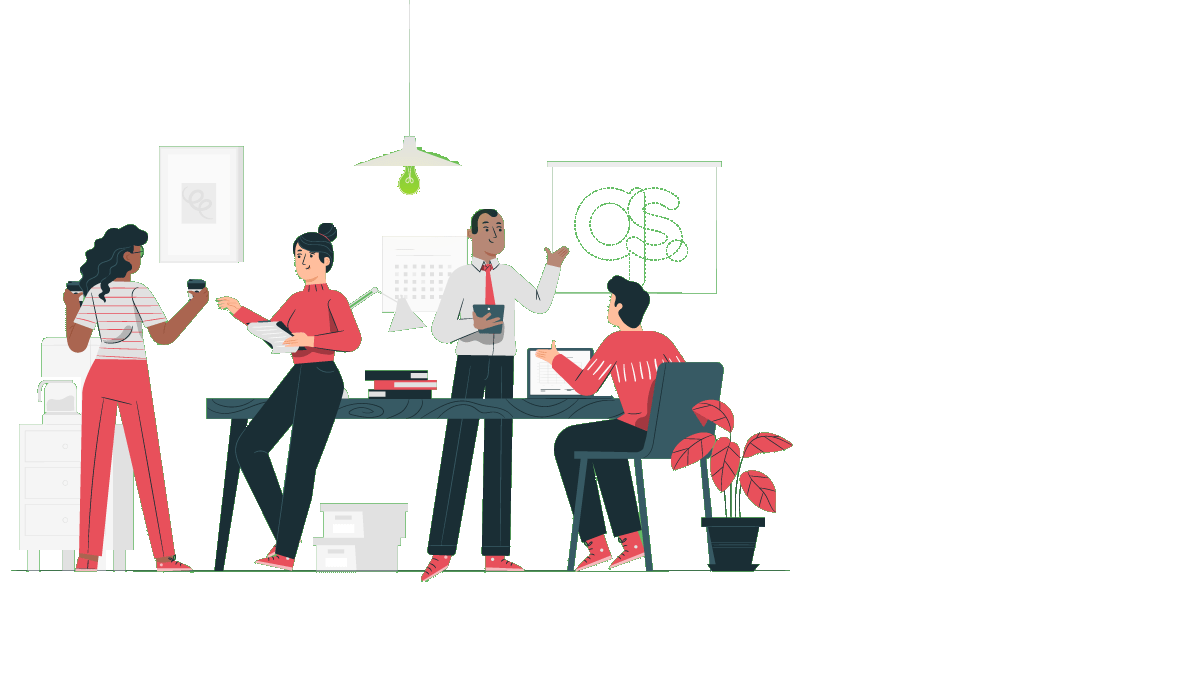
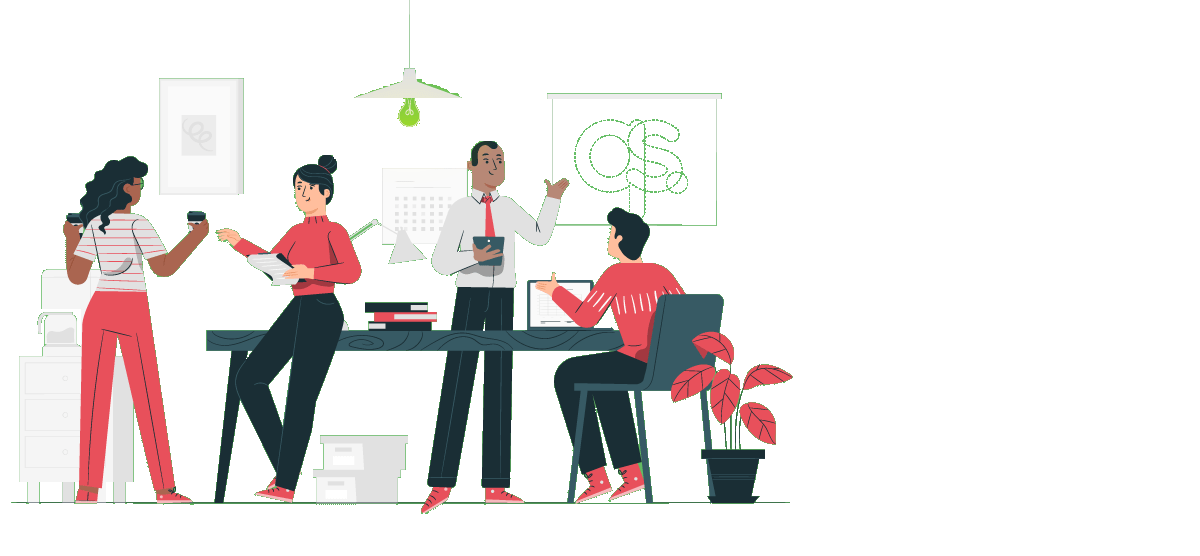
Primeira parte OK

diff --git a/Safer/Safer/src/app/home/home.component.html b/Safer/Safer/src/app/home/home.component.html
@@ -1,8 +1,8 @@
 <div class="principal">
-    <div class="container d-flex justify-content-end">
-        <div class="row d-flex align-items-center">
-            <div class="col-md-12" style="margin-top: 180px;">
-                <div id="formContent" style="margin-right: 0px;" style="background-color: #E8505B;">
+    <div class="container d-flex justify-content-end" style="margin-right: 0px;">
+        <div class="row d-flex align-items-center" style="margin-left: 500px;">
+            <div class="col-md-12" style="margin-top: 60px;">
+                <div id="formContent"  style="background-color: #E8505B;">
                     <!-- Tabs Titles -->
 
                     <!-- Icon -->
@@ -20,96 +20,15 @@
 
                     <div id="formFooter">
                         <!-- Button trigger modal -->
-                        <button type="button" class="btn btn-primary" data-toggle="modal"
-                            data-target="#staticBackdrop1">
+                        <button type="button" class="btn btn-warning" style="background-color: #E6B400;" data-toggle="modal"
+                            data-target="#staticBackdrop1" routerLink = "/solicitarbeneficio">
                             Solicite seu Beneficio
                         </button>
-
-                        <!-- Modal -->
-                        <div class="modal fade" id="staticBackdrop1" data-backdrop="static" data-keyboard="false"
-                            tabindex="-1" aria-labelledby="staticBackdropLabel1" aria-hidden="true">
-                            <div class="modal-dialog">
-                                <div class="modal-content">
-                                    <div class="modal-header">
-                                        <h5 class="modal-title" id="staticBackdropLabel1">Criar uma nova conta</h5>
-                                        <button type="button" class="close" data-dismiss="modal" aria-label="Close">
-                                            <span aria-hidden="true">&times;</span>
-                                        </button>
-                                    </div>
-                                    <div class="modal-body">
-                                        <form>
-                                            <div class="form-row">
-                                                <div class="form-group col-md-6">
-                                                    <label for="inputNome">Nome</label>
-                                                    <input type="text" class="form-control" id="inputNome">
-                                                </div>
-                                                <div class="form-group col-md-6">
-                                                    <label for="inputUsuario">Usuario</label>
-                                                    <input type="text" class="form-control" id="inputUsuario">
-                                                </div>
-                                            </div>
-                                            <div class="form-row">
-                                                <div class="form-group col-md-6">
-                                                    <label for="inputDataNascimento">Data de Nascimento</label>
-                                                    <input type="text" class="form-control" id="inputDataNascimento">
-                                                </div>
-                                                <div class="form-group col-md-6">
-                                                    <label for="inputSenha">Senha</label>
-                                                    <input type="password" class="form-control" id="inputSenha">
-                                                </div>
-                                            </div>
-                                            <div class="form-row">
-                                                <div class="form-group col-md-6">
-                                                    <label for="inputState">Tipo usuário</label>
-                                                    <select id="inputState" class="form-control">
-                                                        <option selected>Escolha...</option>
-                                                        <option>Médico</option>
-                                                        <option>Paciente</option>
-                                                    </select>
-                                                </div>
-                                                <div class="form-group col-md-6">
-                                                    <label for="inputCrm">CRM</label>
-                                                    <input type="text" class="form-control" id="inputCrm">
-                                                </div>
-                                            </div>
-                                            <hr>
-                                            <div class="form-row">
-                                                <div class="form-group col-md-6">
-                                                    <label for="inputRua">Rua</label>
-                                                    <input type="text" class="form-control" id="inputRua">
-                                                </div>
-                                                <div class="form-group col-md-6">
-                                                    <label for="inputBairro">Bairro</label>
-                                                    <input type="text" class="form-control" id="inputBairro">
-                                                </div>
-                                            </div>
-                                            <div class="form-row">
-                                                <div class="form-group col-md-4">
-                                                    <label for="inputRua">CEP</label>
-                                                    <input type="text" class="form-control" id="inputRua">
-                                                </div>
-                                                <div class="form-group col-md-4">
-                                                    <label for="inputNumero">Numero</label>
-                                                    <input type="text" class="form-control" id="inputNumero">
-                                                </div>
-                                                <div class="form-group col-md-4">
-                                                    <label for="inputComplemento">Complemento</label>
-                                                    <input type="text" class="form-control" id="inputComplemento">
-                                                </div>
-                                            </div>
-                                        </form>
-                                    </div>
-                                    <div class="modal-footer">
-                                        <button type="button" class="btn btn-secondary"
-                                            data-dismiss="modal">Fechar</button>
-                                        <button type="button" class="btn btn-primary">Enviar</button>
-                                    </div>
-                                </div>
-                            </div>
-                        </div>
                     </div>
 
                 </div>
             </div>
         </div>
+
+
     </div>

diff --git a/Safer/Safer/src/app/solicitarbeneficio/solicitarbeneficio.component.spec.ts b/Safer/Safer/src/app/solicitarbeneficio/solicitarbeneficio.component.spec.ts
@@ -1,0 +1,25 @@
+import { ComponentFixture, TestBed } from '@angular/core/testing';
+
+import { SolicitarbeneficioComponent } from './solicitarbeneficio.component';
+
+describe('SolicitarbeneficioComponent', () => {
+  let component: SolicitarbeneficioComponent;
+  let fixture: ComponentFixture<SolicitarbeneficioComponent>;
+
+  beforeEach(async () => {
+    await TestBed.configureTestingModule({
+      declarations: [ SolicitarbeneficioComponent ]
+    })
+    .compileComponents();
+  });
+
+  beforeEach(() => {
+    fixture = TestBed.createComponent(SolicitarbeneficioComponent);
+    component = fixture.componentInstance;
+    fixture.detectChanges();
+  });
+
+  it('should create', () => {
+    expect(component).toBeTruthy();
+  });
+});

diff --git a/Safer/Safer/src/app/app-routing.module.ts b/Safer/Safer/src/app/app-routing.module.ts
@@ -3,12 +3,14 @@ import { Routes, RouterModule } from '@angular/router';
 import { FooterComponent } from './footer/footer.component';
 import { HomeComponent } from './home/home.component';
 import { NavbarComponent } from './navbar/navbar.component';
+import { SolicitarbeneficioComponent } from './solicitarbeneficio/solicitarbeneficio.component';
 
 const routes: Routes = [
   { path: '', redirectTo: 'home', pathMatch: 'full'},
   { path: 'home', component: HomeComponent},
   { path: 'navbar', component: NavbarComponent},
-  { path: 'footer', component: FooterComponent}
+  { path: 'footer', component: FooterComponent},
+  { path: 'solicitarbeneficio', component: SolicitarbeneficioComponent}
 
 ];
 

diff --git a/Safer/Safer/src/app/home/home.component.css b/Safer/Safer/src/app/home/home.component.css
@@ -1,7 +1,7 @@
 .principal{
-    background-image: url(../../assets/testefundo.png);
+    background-image: url(../../assets/testandofundo.png);
     background-repeat: no-repeat;
-    height: 700px;
+    height: 600px;
     background-size: cover;
     border: 0px !important;
 }
@@ -256,17 +256,7 @@
     animation-delay: 1s;
   }
   
-  /* Simple CSS3 Fade-in Animation */
-  .underlineHover:after {
-    display: block;
-    left: 0;
-    bottom: -10px;
-    width: 0;
-    height: 2px;
-    background-color: #56baed;
-    content: "";
-    transition: width 0.2s;
-  }
+
   
   .underlineHover:hover {
     color: #0d0d0d;

diff --git a/Safer/Safer/src/app/app.module.ts b/Safer/Safer/src/app/app.module.ts
@@ -7,13 +7,15 @@ import { HomeComponent } from './home/home.component';
 import { NavbarComponent } from './navbar/navbar.component';
 import { FooterComponent } from './footer/footer.component';
 import { FontAwesomeModule } from '@fortawesome/angular-fontawesome';
+import { SolicitarbeneficioComponent } from './solicitarbeneficio/solicitarbeneficio.component';
 
 @NgModule({
   declarations: [
     AppComponent,
     HomeComponent,
     NavbarComponent,
-    FooterComponent
+    FooterComponent,
+    SolicitarbeneficioComponent
   ],
   imports: [
     BrowserModule,

diff --git a/Safer/Safer/src/app/navbar/navbar.component.html b/Safer/Safer/src/app/navbar/navbar.component.html
@@ -7,7 +7,7 @@
     <div class="collapse navbar-collapse" id="navbarSupportedContent">
       <ul class="navbar-nav ml-auto">
         <li class="nav-item active">
-          <a class="nav-link" routerLink = '/home'>Home <span class="sr-only">(current)</span></a>
+          <a class="nav-link" id="branco" routerLink = '/home' >Home <span class="sr-only">(current)</span></a>
         </li>
         <li class="nav-item">
           <a class="nav-link" href="#">Link</a>

diff --git a/Safer/Safer/src/app/solicitarbeneficio/solicitarbeneficio.component.ts b/Safer/Safer/src/app/solicitarbeneficio/solicitarbeneficio.component.ts
@@ -1,0 +1,15 @@
+import { Component, OnInit } from '@angular/core';
+
+@Component({
+  selector: 'app-solicitarbeneficio',
+  templateUrl: './solicitarbeneficio.component.html',
+  styleUrls: ['./solicitarbeneficio.component.css']
+})
+export class SolicitarbeneficioComponent implements OnInit {
+
+  constructor() { }
+
+  ngOnInit(): void {
+  }
+
+}

diff --git a/Safer/Safer/src/app/solicitarbeneficio/solicitarbeneficio.component.html b/Safer/Safer/src/app/solicitarbeneficio/solicitarbeneficio.component.html
@@ -1,0 +1,5 @@
+<app-navbar></app-navbar>
+
+<div class="container-fluid">
+
+</div>

diff --git a/Safer/Safer/src/app/navbar/navbar.component.css b/Safer/Safer/src/app/navbar/navbar.component.css
@@ -1,0 +1,3 @@
+#branco{
+    color: #ffffff;
+}
